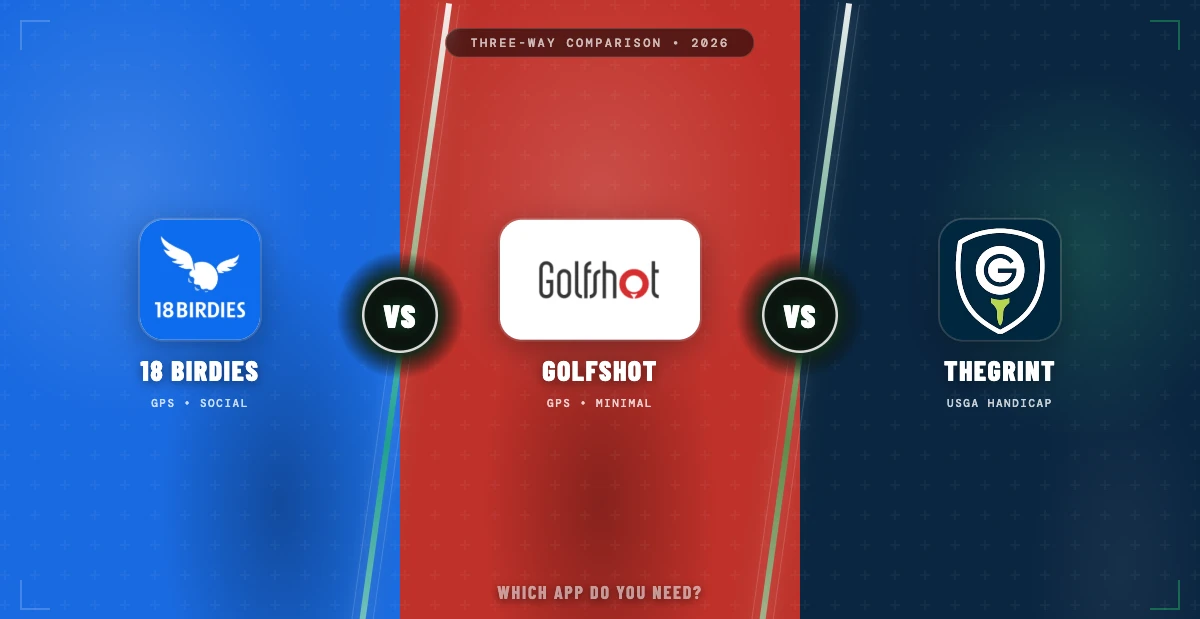
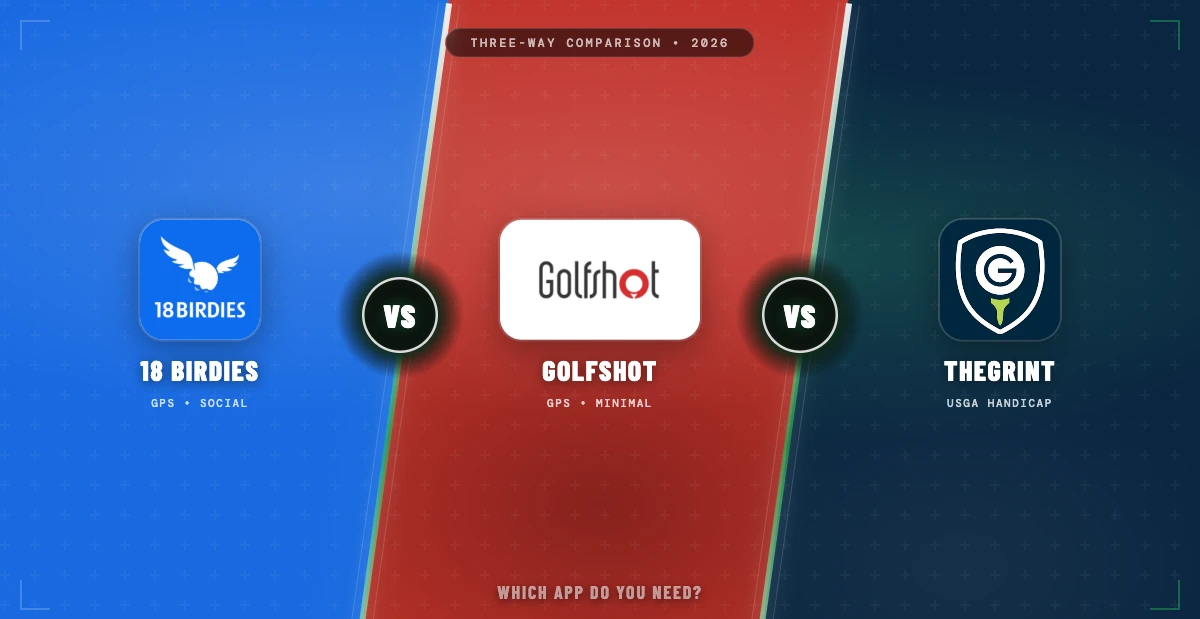
Make 3-way panels follow the diagonal slashes
Panels now have clip-paths that match the 8-degree slash angle exactly,
so the boundary between each app's coloured area runs along the diagonal
line rather than being a hard vertical edge. Average panel width stays
1/3 each, so proportions remain balanced — but the design now has the
diagonal-energy of the 2-way thumbnails applied cleanly across 3 apps.

diff --git a/blog/images/18birdies-golfshot-thegrint-hero.html b/blog/images/18birdies-golfshot-thegrint-hero.html
@@ -31,17 +31,20 @@
      equal. Diagonal slashes are added on top as decoration only.
   ═══════════════════════════════════════════════════════════════ */
 
+  /* Panels span full canvas width and use clip-paths to follow the
+     8-degree diagonal slashes. Average panel width = 1/3 each. */
   .panel {
     position: absolute;
     top: 0;
-    width: 33.333%;
+    left: 0;
+    width: 100%;
     height: 100%;
   }
 
   /* PANEL 1 — 18 Birdies (blue) */
   .panel--p1 {
-    left: 0;
     background: #1a6ae0;
+    clip-path: polygon(0 0, 37.4% 0, 30.1% 100%, 0 100%);
   }
   .panel--p1::before {
     content: '';
@@ -54,8 +57,8 @@
 
   /* PANEL 2 — Golfshot (red) */
   .panel--p2 {
-    left: 33.333%;
     background: #c0312a;
+    clip-path: polygon(37.4% 0, 70.7% 0, 63.5% 100%, 30.1% 100%);
   }
   .panel--p2::before {
     content: '';
@@ -68,8 +71,8 @@
 
   /* PANEL 3 — TheGrint (navy + green accent) */
   .panel--p3 {
-    left: 66.666%;
     background: #0a2540;
+    clip-path: polygon(70.7% 0, 100% 0, 100% 100%, 63.5% 100%);
   }
   .panel--p3::before {
     content: '';
